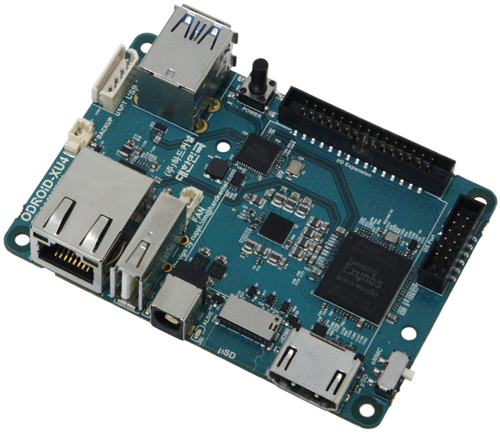
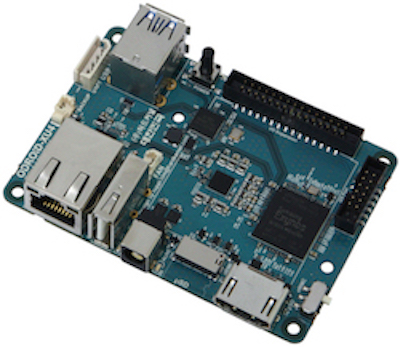
rescale odroid image

diff --git a/pages/installing/gettingStarted-Odroid-XU4.md b/pages/installing/gettingStarted-Odroid-XU4.md
@@ -1,6 +1,6 @@
 # Getting Started With the Odroid XU4
 
-![Odroid Board](/img/odroidBoard.jpg)
+![Odroid Board](/img/odroidXUBoard.jpg)
 
 ## What You'll Need
 
